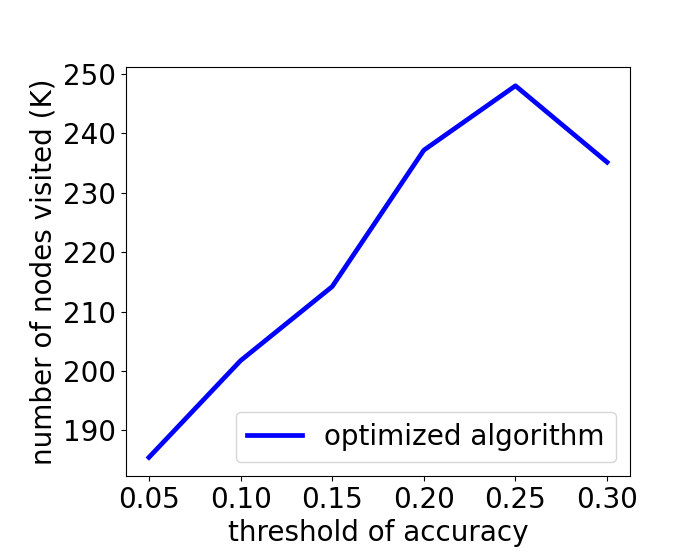
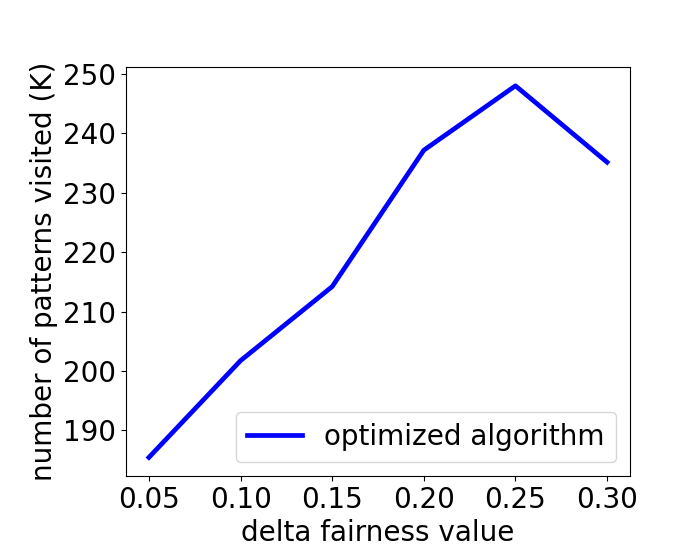
low acc, creditcard, tha

Changed region(s): [[0.03, 0.1214, 0.09, 0.85], [0.33, 0.9107, 0.75, 0.9714]]

diff --git a/Coding/Experiments/AccuracyFairness/CreditcardData/Tha_0_20210201.py b/Coding/Experiments/AccuracyFairness/CreditcardData/Tha_0_20210201.py
@@ -124,7 +124,7 @@ for n in range(len(diff_acc)):
 plt.plot(diff_acc, execution_time, label="optimized algorithm", color='blue', linewidth = 3.4)
 
 
-plt.xlabel('threshold of accuracy')
+plt.xlabel('delta fairness value')
 plt.ylabel('execution time (s)')
 plt.xticks(diff_acc)
 
@@ -137,8 +137,8 @@ plt.show()
 fig, ax = plt.subplots()
 plt.plot(diff_acc, num_calculations, label="optimized algorithm", color='blue', linewidth = 3.4)
 
-plt.xlabel('threshold of accuracy')
-plt.ylabel('number of nodes visited (K)')
+plt.xlabel('delta fairness value')
+plt.ylabel('number of patterns visited (K)')
 ax.yaxis.set_major_formatter(FuncFormatter(thousands_formatter))
 
 

diff --git a/Coding/Experiments/AccuracyFairness/CreditcardData/Tha_1_20210629.py b/Coding/Experiments/AccuracyFairness/CreditcardData/Tha_1_20210629.py
@@ -129,7 +129,7 @@ for n in range(len(diff_acc)):
 plt.plot(diff_acc, execution_time, label="optimized algorithm", color='blue', linewidth = 3.4)
 
 
-plt.xlabel('threshold of accuracy')
+plt.xlabel('delta fairness value')
 plt.ylabel('execution time (s)')
 plt.xticks(diff_acc)
 
@@ -142,8 +142,8 @@ plt.show()
 fig, ax = plt.subplots()
 plt.plot(diff_acc, num_calculations, label="optimized algorithm", color='blue', linewidth = 3.4)
 
-plt.xlabel('threshold of accuracy')
-plt.ylabel('number of nodes visited (K)')
+plt.xlabel('delta fairness value')
+plt.ylabel('number of patterns visited (K)')
 ax.yaxis.set_major_formatter(FuncFormatter(thousands_formatter))
 
 
